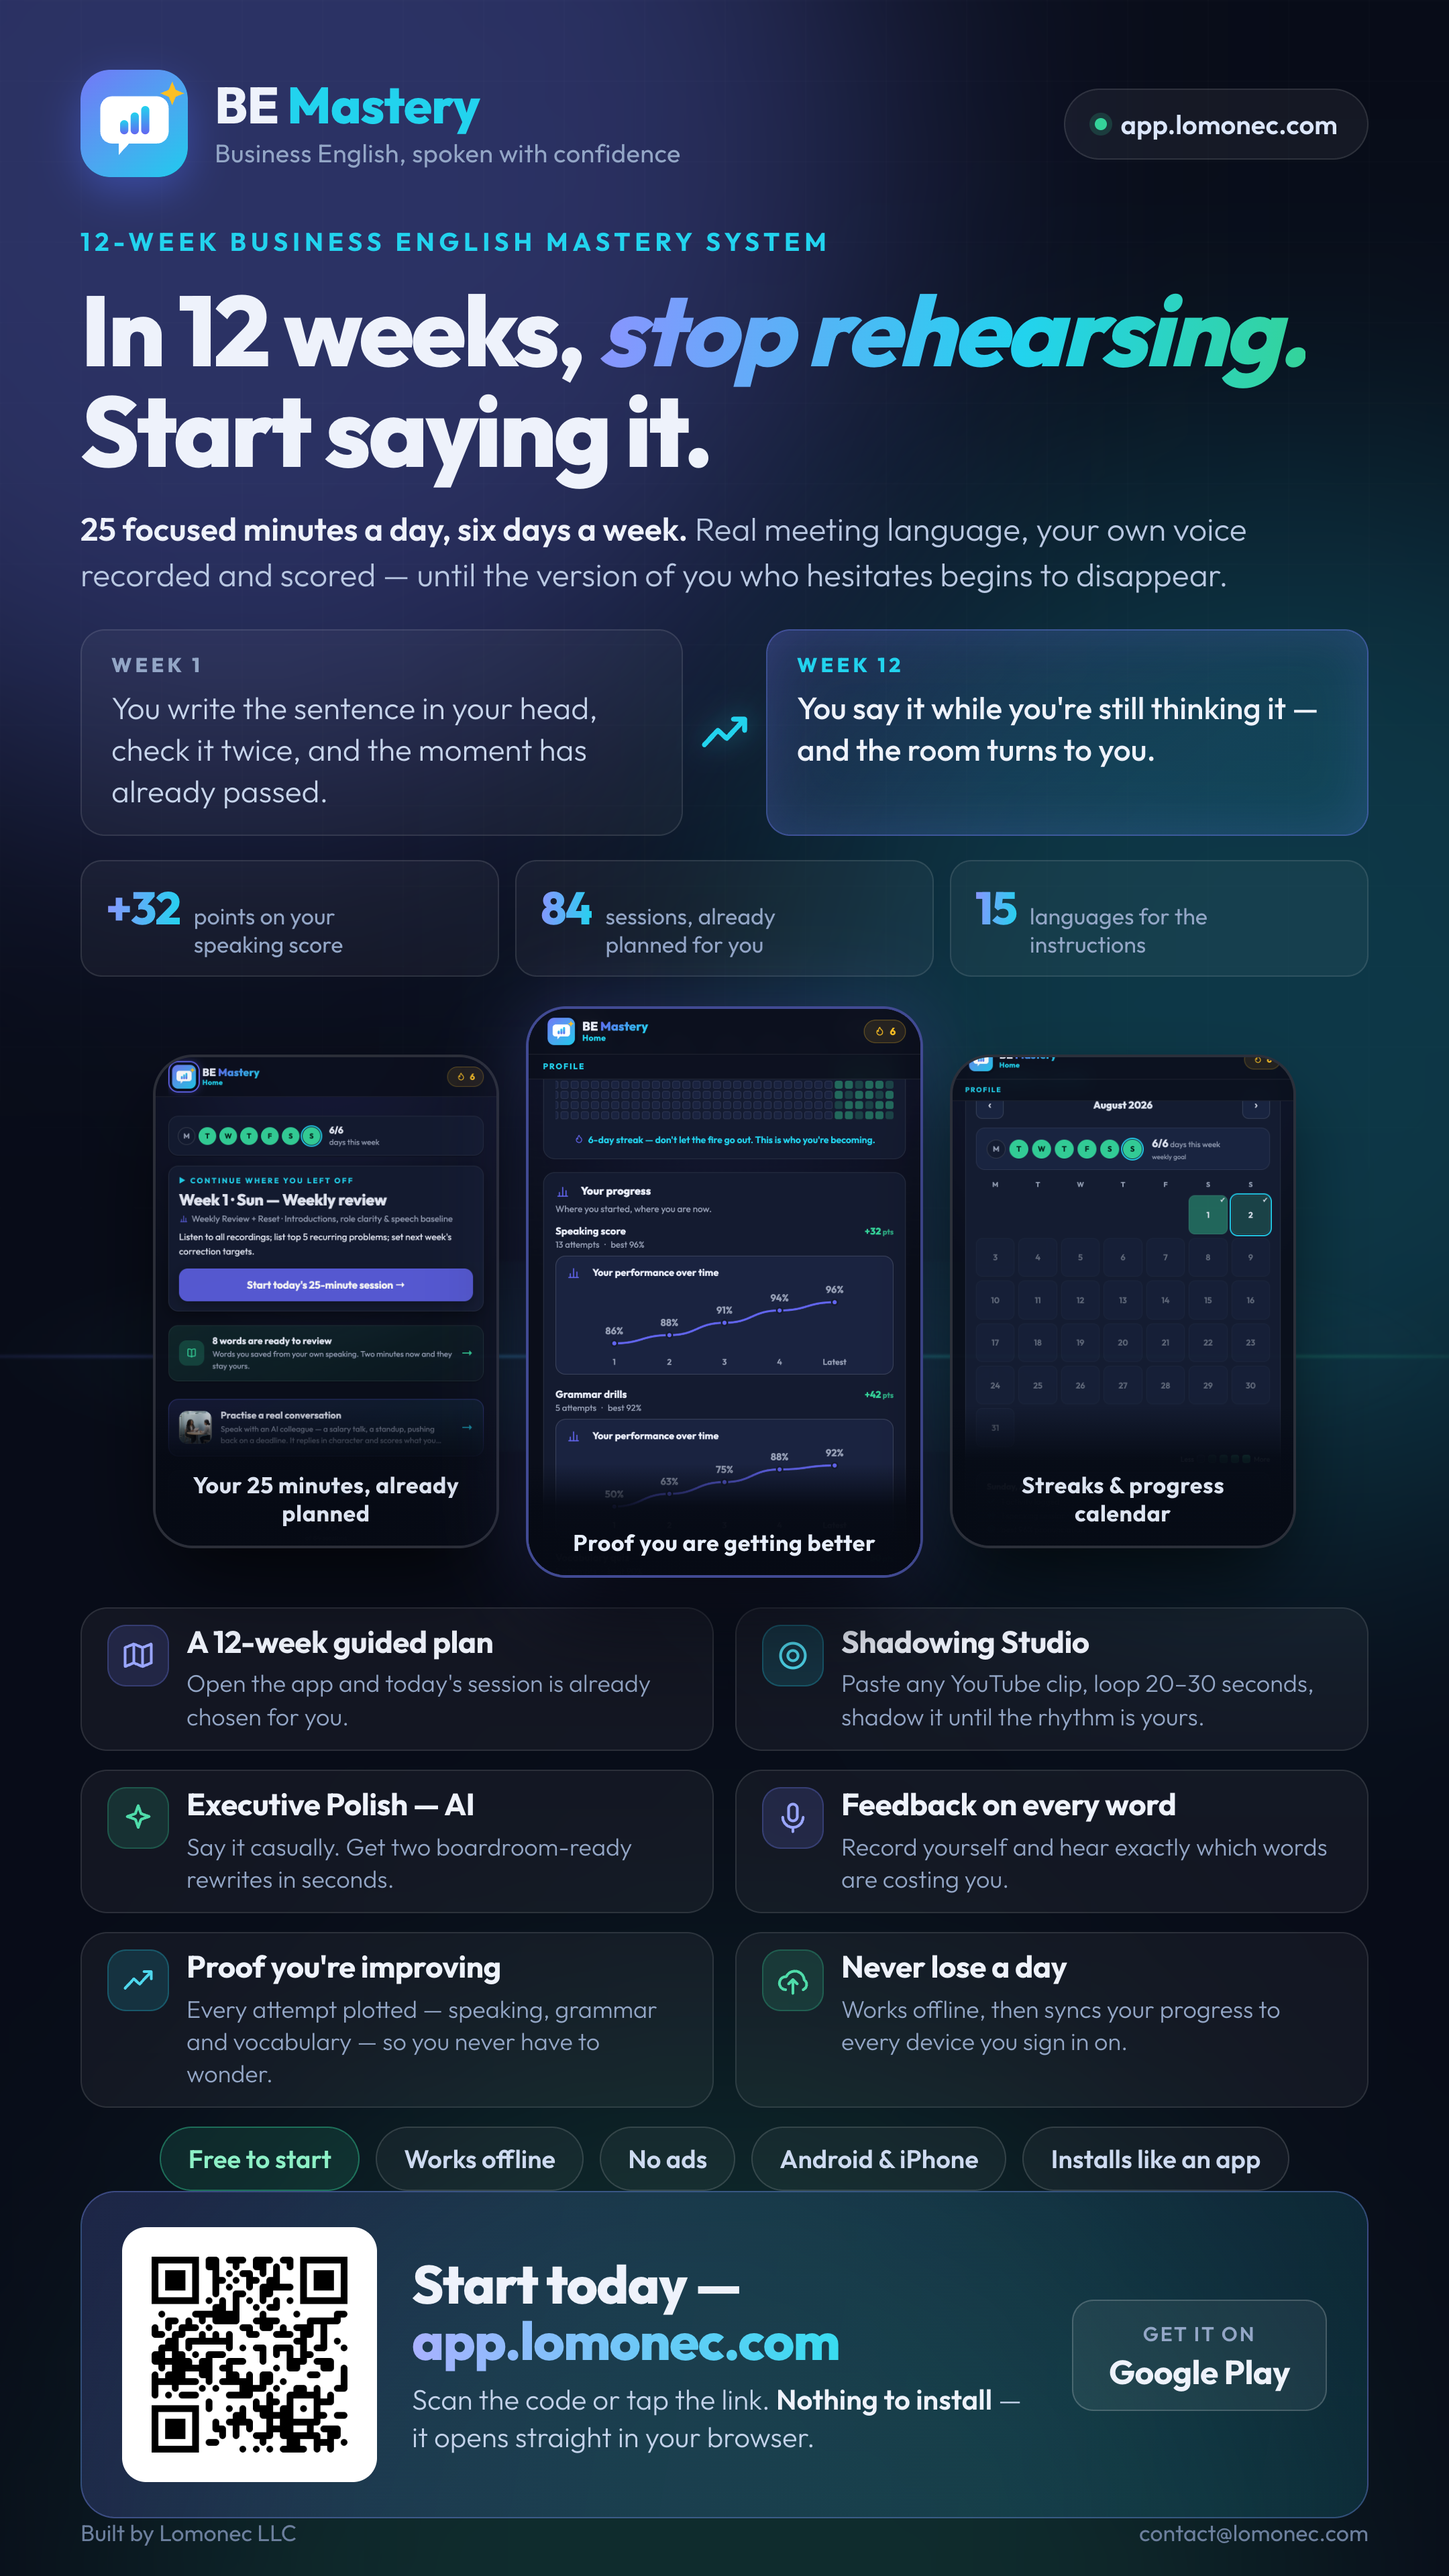
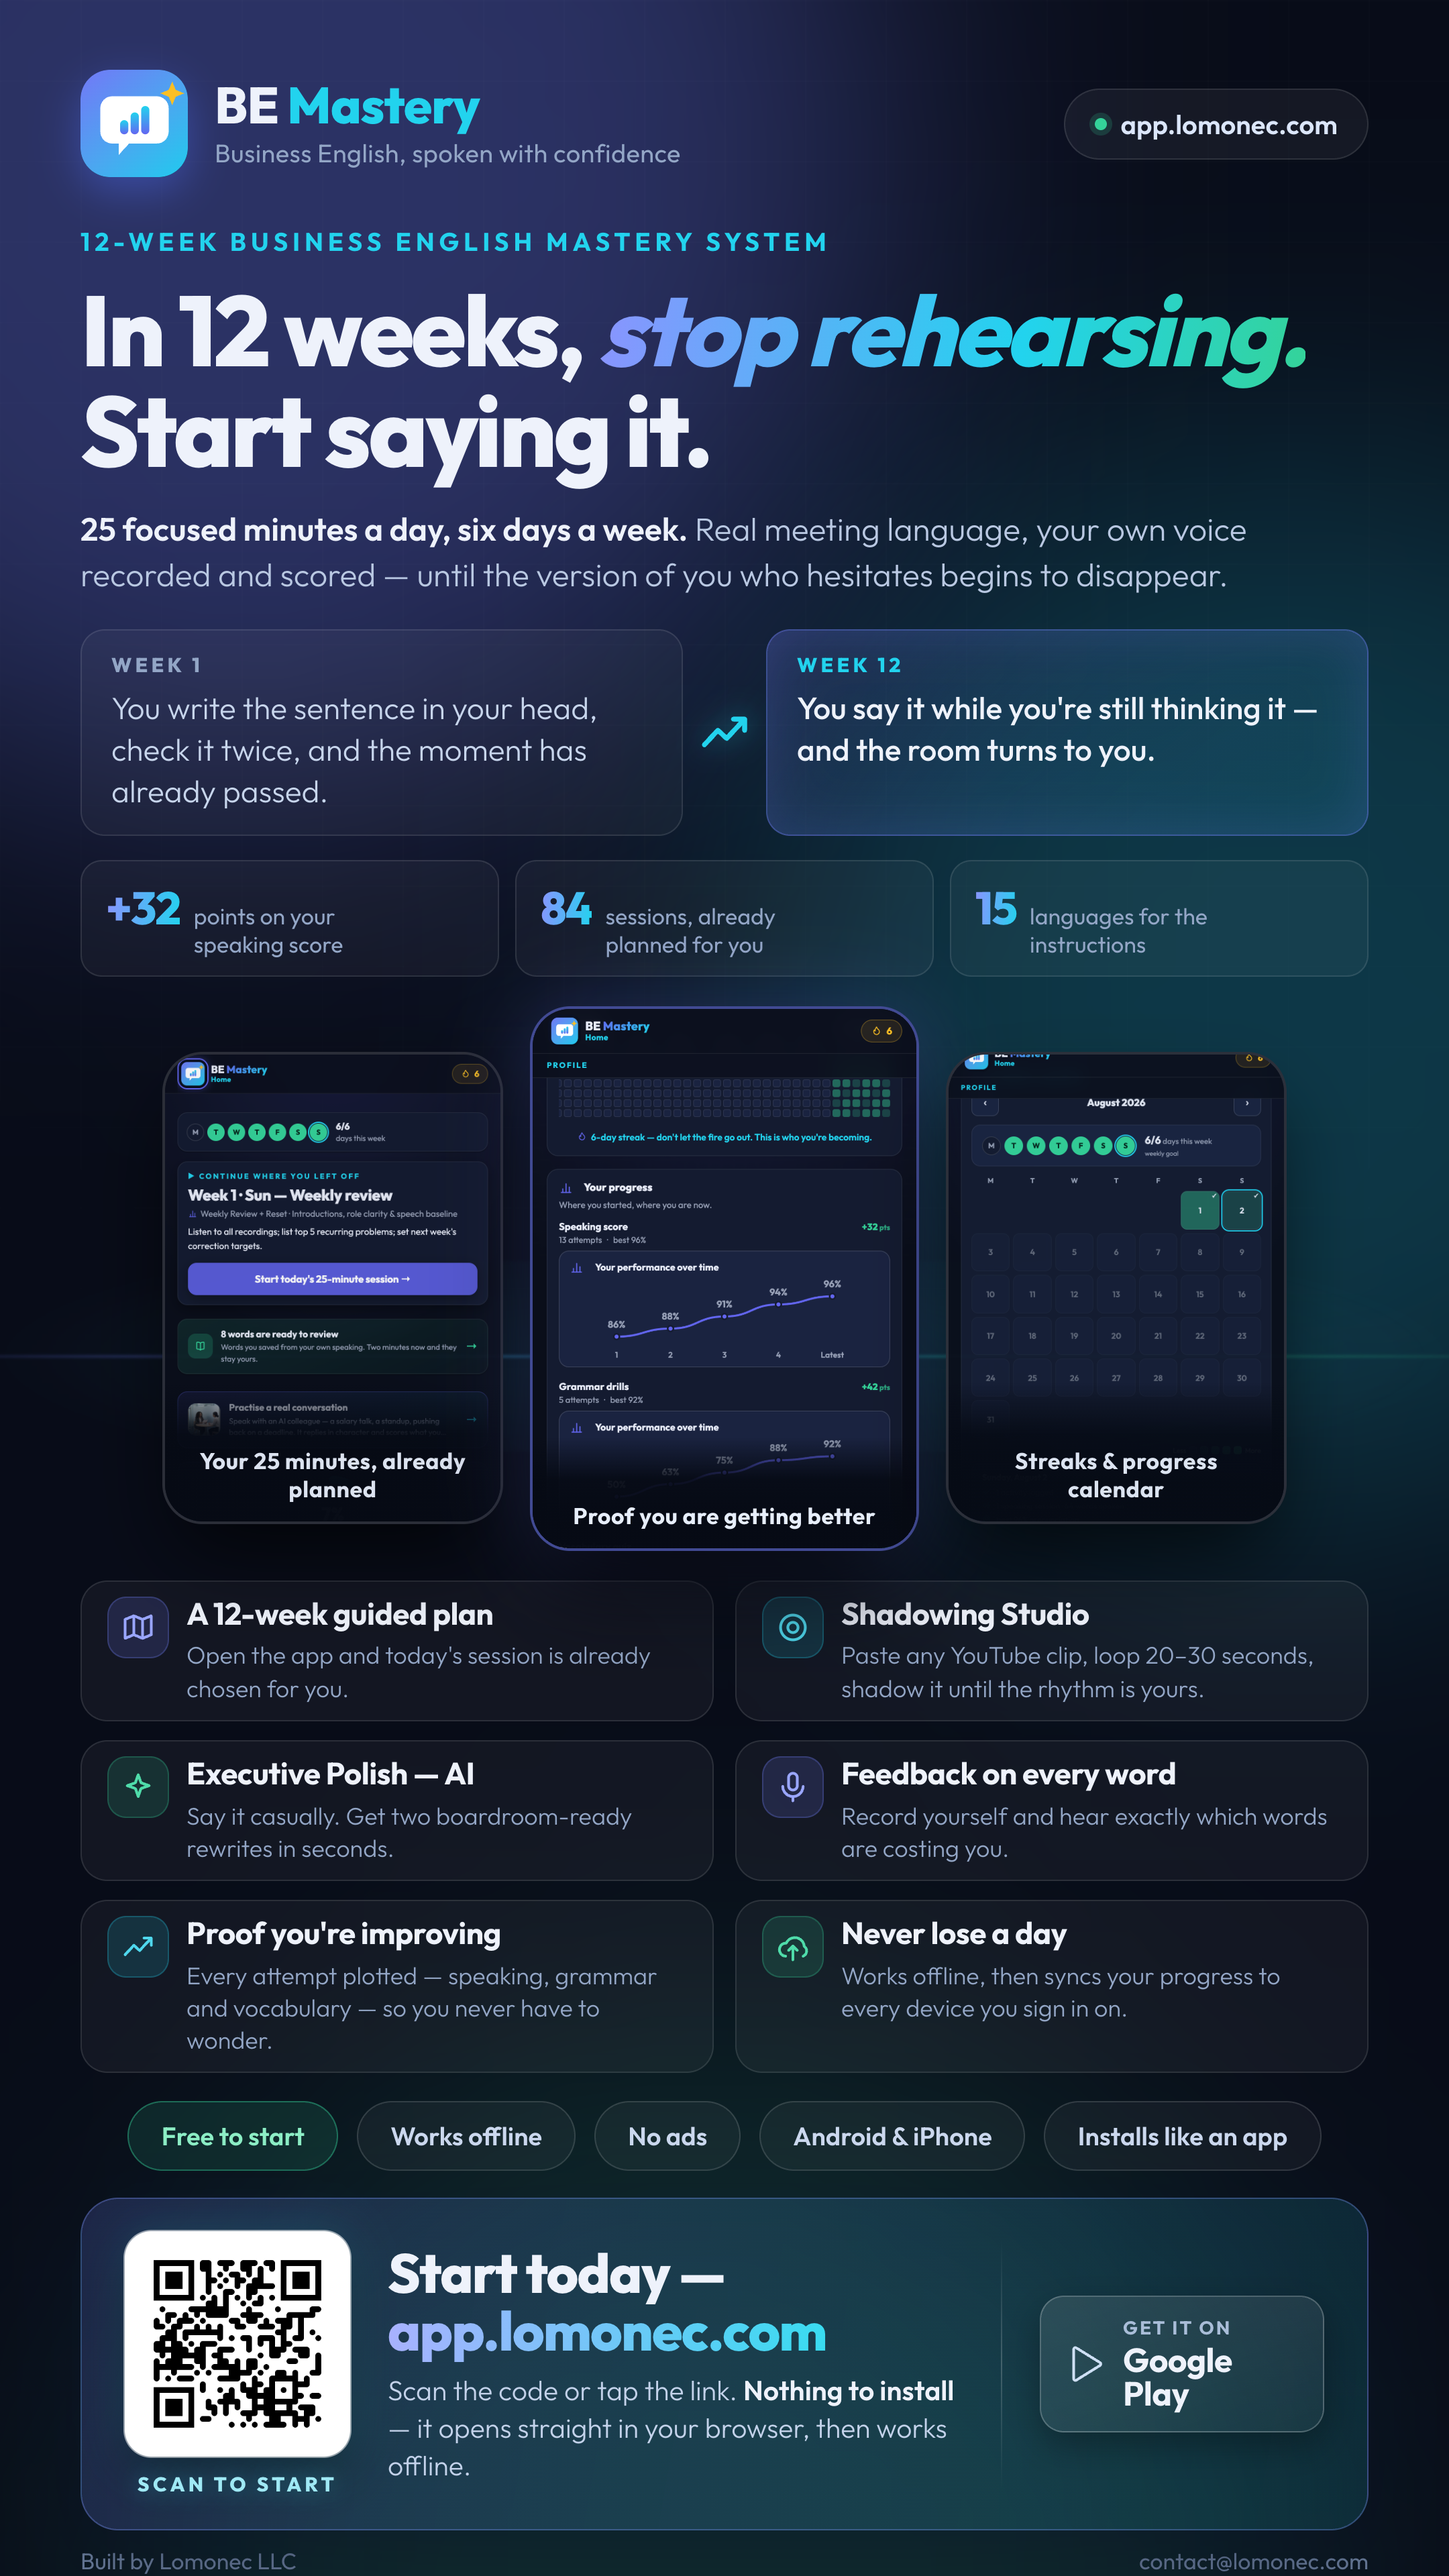
Flyer: give the trust chips room and stop the footer overlapping the CTA
The chips row was pinned tight between the feature grid and the CTA panel.
It now has 21px above and 20px below and the chips are a little wider
(13px/24px padding), so the row reads as its own band rather than filler.

Also fixes a real collision: .foot was absolutely positioned at bottom:22px
while .cta was pushed down by margin-top:auto. Once the column filled the page
exactly, the CTA's margin-bottom stopped reserving any space and the footer
printed on top of the panel — measured, the CTA ran to y=1915 while the footer
sat at 1877-1898. The footer is now a normal flex item after the CTA, so the
overlap is structurally impossible rather than tuned away.

CTA panel colour is unchanged, deliberately. A two-layer padding-box/border-box
gradient ring was tried here and reverted: the padding-box layer carries alpha,
so the bright border layer showed through the entire panel instead of just the
1px edge, turning it solid teal. The comment in the CSS records that so it is
not attempted again.

Kept from the CTA pass: the QR is framed with a soft ring and captioned
'Scan to start' (a bare white square reads as a rendering glitch on a dark
poster), a hairline separates the offer from the Play route, and the Play badge
is a proper badge. The play mark is plain monochrome on purpose — redrawing
Google's four-colour logo would breach their brand guidelines; swap in the
official artwork before any paid placement.

Layout: pageScroll exactly 1920, nothing clipped.

diff --git a/marketing/whatsapp-flyer.src.html b/marketing/whatsapp-flyer.src.html
@@ -86,13 +86,13 @@ h1 em{font-style:italic;background:linear-gradient(96deg,#8b93ff,#22d3ee 60%,#34
 .ph .cap{position:absolute;left:0;right:0;bottom:0;padding:48px 14px 14px;
   font-size:17px;font-weight:700;text-align:center;letter-spacing:.3px;color:#e7eefb;
   background:linear-gradient(to top,rgba(6,10,20,.99) 30%,rgba(6,10,20,.92) 62%,transparent)}
-.ph.side{width:258px;height:368px;margin-bottom:22px;opacity:.95}
-.ph.main{width:296px;height:426px;border-color:rgba(111,124,246,.55);
+.ph.side{width:254px;height:352px;margin-bottom:20px;opacity:.95}
+.ph.main{width:290px;height:406px;border-color:rgba(111,124,246,.55);
   box-shadow:0 36px 70px -14px rgba(0,0,0,.8), 0 0 60px rgba(111,124,246,.28)}
 
 /* ---------- features ---------- */
 .feats{margin-top:22px;display:grid;grid-template-columns:1fr 1fr;gap:14px 16px}
-.f{display:flex;gap:13px;padding:12px 19px;border-radius:20px;
+.f{display:flex;gap:13px;padding:11px 19px;border-radius:20px;
   background:var(--card);border:1px solid var(--line)}
 .f .ic{width:46px;height:46px;flex:none;border-radius:14px;display:grid;place-items:center;
   background:rgba(111,124,246,.16);color:#9aa6ff;border:1px solid rgba(111,124,246,.26)}
@@ -104,29 +104,52 @@ h1 em{font-style:italic;background:linear-gradient(96deg,#8b93ff,#22d3ee 60%,#34
 .f p{margin-top:6px;font-size:18px;line-height:1.35;color:var(--mut);font-weight:300}
 
 /* ---------- trust ---------- */
-.trust{margin-top:14px;display:flex;justify-content:center;flex-wrap:wrap;gap:12px}
-.t{padding:11px 20px;border-radius:999px;font-size:19px;font-weight:600;
+.trust{margin:21px 0 20px;display:flex;justify-content:center;flex-wrap:wrap;gap:14px}
+.t{padding:13px 24px;border-radius:999px;font-size:19px;font-weight:600;
   border:1px solid rgba(255,255,255,.13);background:rgba(255,255,255,.04);color:#cddaf0}
 .t.on{border-color:rgba(52,211,153,.4);background:rgba(52,211,153,.12);color:#8df0c6}
 
 /* ---------- cta ---------- */
-.cta{margin-top:auto;margin-bottom:74px;display:flex;align-items:center;gap:26px;
-  padding:26px 30px;border-radius:26px;
+/* The close. A lit edge rather than a flat panel: the gradient border is a
+   masked ring so it glows without washing the content inside it. */
+.cta{margin-top:auto;margin-bottom:0;position:relative;display:flex;align-items:center;gap:28px;
+  padding:24px 32px;border-radius:28px;
+  /* original tint kept deliberately. A two-layer padding-box/border-box ring
+     was tried here and reverted: the padding-box layer has alpha, so the bright
+     border layer showed through the whole panel instead of just the edge. */
   background:linear-gradient(100deg,rgba(111,124,246,.20),rgba(34,211,238,.13));
-  border:1px solid rgba(126,150,255,.32)}
-.qr{width:190px;height:190px;flex:none;border-radius:18px;padding:12px;background:#fff}
+  border:1px solid rgba(126,150,255,.32);
+  box-shadow:0 24px 70px rgba(10,16,40,.45)}
+
+/* QR: framed and captioned. A bare white square reads as a glitch on a dark
+   poster; the frame makes it deliberate and the label tells you to use it. */
+.qrwrap{flex:none;display:flex;flex-direction:column;align-items:center;gap:11px}
+.qr{width:168px;height:168px;border-radius:20px;padding:13px;background:#fff;
+  box-shadow:0 0 0 1px rgba(255,255,255,.55), 0 14px 34px rgba(0,0,0,.42), 0 0 34px rgba(56,220,240,.22)}
 .qr img{width:100%;height:100%;display:block}
-.cta .big{font-size:40px;font-weight:800;letter-spacing:-.9px;line-height:1.05}
+.qrcap{font-size:15px;font-weight:800;letter-spacing:2.6px;text-transform:uppercase;
+  color:#9fe9f5;text-shadow:0 0 16px rgba(56,220,240,.45)}
+
+.ctatext{flex:1;min-width:0}
+.cta .big{font-size:41px;font-weight:800;letter-spacing:-.9px;line-height:1.05}
 .cta .big span{background:linear-gradient(93deg,#a9b1ff,#38dcf0);
   -webkit-background-clip:text;background-clip:text;color:transparent}
-.cta .sm{margin-top:9px;font-size:21px;color:#c3d2ea;font-weight:300;line-height:1.35}
+.cta .sm{margin-top:9px;font-size:20.5px;color:#c3d2ea;font-weight:300;line-height:1.36;max-width:560px}
 .cta .sm b{color:#eef2fb;font-weight:600}
-.play{margin-left:auto;flex:none;text-align:center}
-.play .box{width:190px;padding:15px 10px 13px;border-radius:16px;
-  border:1px solid rgba(255,255,255,.18);background:rgba(255,255,255,.06)}
-.play .g{font-size:15px;color:var(--mut);letter-spacing:1.4px;font-weight:600;text-transform:uppercase}
-.play .p{font-size:25px;font-weight:700;margin-top:3px;letter-spacing:-.3px}
-.foot{position:absolute;left:60px;right:60px;bottom:22px;display:flex;
+
+/* hairline that separates the offer from the second route to it */
+.ctarule{flex:none;width:1px;align-self:stretch;margin:6px 0;
+  background:linear-gradient(180deg,transparent,rgba(255,255,255,.20),transparent)}
+
+.play{flex:none}
+.play .box{width:212px;padding:16px 18px;border-radius:18px;display:flex;align-items:center;gap:13px;
+  border:1px solid rgba(255,255,255,.22);
+  background:linear-gradient(160deg,rgba(255,255,255,.10),rgba(255,255,255,.045));
+  box-shadow:0 10px 26px rgba(0,0,0,.30)}
+.play .tri{width:30px;height:30px;flex:none;display:block}
+.play .g{font-size:14px;color:#a9bdd8;letter-spacing:1.5px;font-weight:700;text-transform:uppercase;line-height:1}
+.play .p{font-size:25px;font-weight:700;margin-top:4px;letter-spacing:-.3px;line-height:1}
+.foot{margin-top:12px;margin-bottom:14px;display:flex;
   font-size:17px;color:#6c7f9d;font-weight:400}
 .foot .r{margin-left:auto}
 </style></head>
@@ -203,12 +226,22 @@ h1 em{font-style:italic;background:linear-gradient(96deg,#8b93ff,#22d3ee 60%,#34
   </div>
 
   <div class="cta">
-    <div class="qr"><img src="__QR__"></div>
-    <div>
-      <div class="big">Start today — <span>app.lomonec.com</span></div>
-      <div class="sm">Scan the code or tap the link. <b>Nothing to install</b> — it opens straight in your browser.</div>
+    <div class="qrwrap">
+      <div class="qr"><img src="__QR__"></div>
+      <div class="qrcap">Scan to start</div>
     </div>
-    <div class="play"><div class="box"><div class="g">Get it on</div><div class="p">Google Play</div></div></div>
+    <div class="ctatext">
+      <div class="big">Start today — <span>app.lomonec.com</span></div>
+      <div class="sm">Scan the code or tap the link. <b>Nothing to install</b> — it opens straight in your browser, then works offline.</div>
+    </div>
+    <div class="ctarule"></div>
+    <div class="play"><div class="box">
+      <!-- a plain monochrome play mark, deliberately NOT Google's four-colour
+           logo: reproducing their trademark from scratch is a brand-guidelines
+           breach. Swap in the official badge artwork before any paid placement. -->
+      <svg class="tri" viewBox="0 0 24 24" fill="none"><path d="M5 3.2v17.6a1 1 0 0 0 1.5.87l14.2-8.8a1 1 0 0 0 0-1.74L6.5 2.33A1 1 0 0 0 5 3.2Z" stroke="#cfe0f5" stroke-width="1.6" stroke-linejoin="round"/></svg>
+      <div><div class="g">Get it on</div><div class="p">Google Play</div></div>
+    </div></div>
   </div>
 
   <div class="foot"><div>Built by Lomonec LLC</div><div class="r">contact@lomonec.com</div></div>
